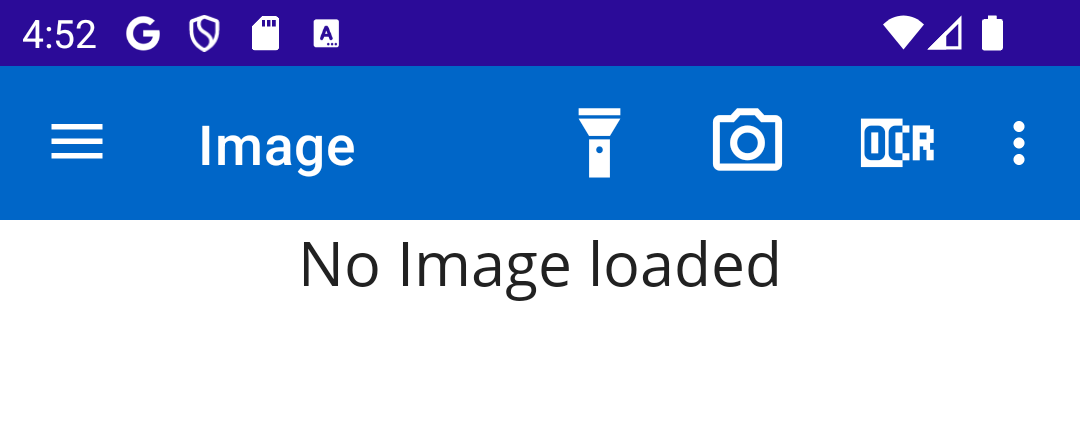
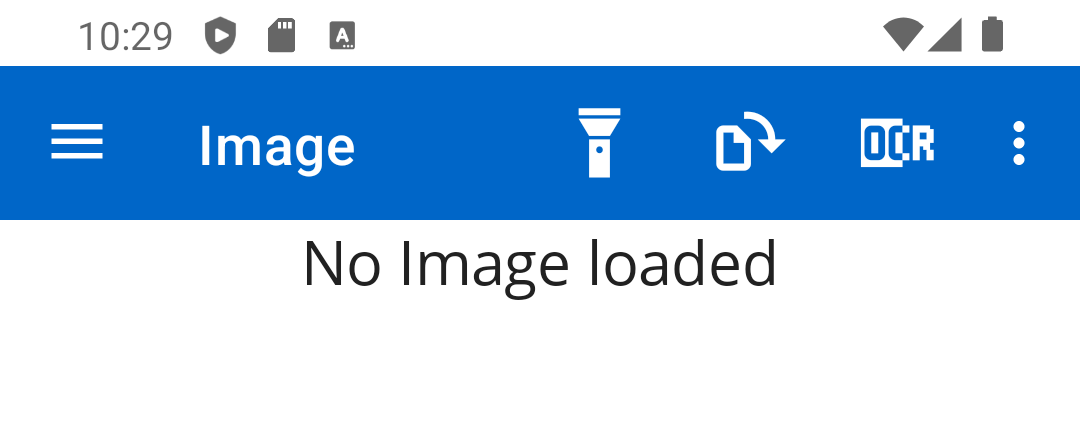
Image Rotation
The image page now has an icon to allow an image to be rotated if it happens to be oriented incorrectly.

Added RotateRight command to ImageViewModel for 90° image rotation with platform-specific logic. Updated ImagePage toolbar to include rotate button in place of camera button. Refactored image processing to use only streams and added rotation methods. Updated Help.

Changed region(s): [[0.0, 0.0, 1.0, 0.1512], [0.275, 0.5442, 0.7333, 0.6953], [0.6417, 0.2419, 0.7333, 0.393]]

diff --git a/web/divisibill/imageglossary.html b/web/divisibill/imageglossary.html
@@ -17,15 +17,15 @@
 <p>This icon, in the top left corner of the screen, allows you to show or collapse the flyout menu to navigate to other pages (navigate from the Items page to the Totals page by swiping left, back to the Items page by swiping right).</p>
 <h3 id="light">Light (<u></u>/<u></u>)</h3>
 <p>Turns the flashlight on or off (it will turn off when you use the camera).</p>
-<h3 id="camera">Camera (<u></u>)</h3>
-<p>Opens the <a href="camerapage.html">camera page</a> so you can take a picture of the bill.</p>
+<h3 id="rotate">Rotate (<u></u>)</h3>
+<p>Rotates the image 90 degrees clockwise. This is useful if you took the picture in landscape mode and want to rotate it to portrait mode for better OCR results.</p>
 <h3 id="ocr">OCR (<u></u>)</h3>
 <p>If you have the Professional Edition version of DivisiBill, this uses a cloud web service to scan the image to extract the data for the current bill.</p>
 <h3 id="ellipsis">Ellipsis (<u></u>)</h3>
 <p>Tap on the ellipsis to open a secondary menu containing commands to delete the current image, take a picture of a replacement image or browse for a picture.</p>
 <ul>
 <li>Delete - Remove the image from the current bill.</li>
-<li>Camera - Take a picture of a bill.</li>
+<li>Camera - Opens the <a href="camerapage.html">camera page</a> so you can take a picture of the bill.</li>
 <li>Browse - Browse and select from current images.</li>
 </ul>
 <h2 id="image-area">Image Area</h2>

diff --git a/DivisiBill/App.xaml b/DivisiBill/App.xaml
@@ -108,6 +108,7 @@
             <FontImageSource x:Key="GlyphOCR"                   Color="White" Glyph="&#xF113A;" FontFamily="mdicons"/> <!--ocr-->
             <FontImageSource x:Key="GlyphPersonEdit"            Color="White" Glyph="&#xF0FFB;" FontFamily="mdicons"/> <!--account-edit-outline-->
             <FontImageSource x:Key="GlyphReplace"               Color="White" Glyph="&#xF0B33;" FontFamily="mdicons"/> <!--file-replace-outline-->
+            <FontImageSource x:Key="GlyphRotate90"              Color="White" Glyph="&#xF1A3E;" FontFamily="mdicons"/> <!--file-rotate-clockwise-->
             <FontImageSource x:Key="GlyphMapMarker"             Color="White" Glyph="&#xF07D9;" FontFamily="mdicons"/> <!--map-marker-outline-->
             <FontImageSource x:Key="GlyphMapMarkerRemove"       Color="White" Glyph="&#xF12FA;" FontFamily="mdicons"/> <!--map-marker-remove-outline-->
             <FontImageSource x:Key="GlyphRestore"               Color="White" Glyph="&#xF099B;" FontFamily="mdicons"/> <!--restore-->

diff --git a/DivisiBill/Views/ImagePage.xaml b/DivisiBill/Views/ImagePage.xaml
@@ -13,7 +13,7 @@
              x:DataType="vm:ImageViewModel">
     <ContentPage.ToolbarItems>
         <ToolbarItem IconImageSource="{Binding LightGlyph}" Command="{Binding ChangeLightModeCommand}" x:Name="FlashlightTbi"/>
-        <ToolbarItem IconImageSource="{StaticResource GlyphCamera}" Command="{Binding TakePictureCommand}"/>
+        <ToolbarItem IconImageSource="{StaticResource GlyphRotate90}" Command="{Binding RotateRightCommand}"/>
         <ToolbarItem IconImageSource="{StaticResource GlyphOCR}" Command="{Binding OcrCommand}"/>
         <ToolbarItem Text = "Delete"   Command="{Binding DeleteCommand}" Order="Secondary"/>
         <ToolbarItem Text = "Undelete" Command="{Binding UndeleteCommand}" Order="Secondary"/>

diff --git a/DivisiBill/ViewModels/ImageViewModel.cs b/DivisiBill/ViewModels/ImageViewModel.cs
@@ -190,6 +190,47 @@ public partial class ImageViewModel : ObservableObjectPlus, IQueryAttributable
             OnPropertyChanged(nameof(HasPreviewImage));
         }
     }
+
+    /// <summary>
+    /// Rotate the current image clockwise by 90 degrees
+    /// </summary>
+    [RelayCommand]
+    private async Task RotateRight()
+    {
+        if (!HasPreviewImage)
+            return;
+
+        try
+        {
+            IsBusy = true;
+            ResetImageView();
+
+            string sourcePath = imageChanged ? Meal.TempImageFilePath : Meal.CurrentMeal.ImagePath;
+            string tempPath = Path.Combine(Path.GetTempPath(), $"rotate_{Guid.NewGuid()}.jpg");
+
+            using (FileStream outputStream = File.Create(tempPath))
+            {
+                if (Microsoft.Maui.Devices.DeviceInfo.Platform == DevicePlatform.Android)
+                    SkiaSharpRotate(sourcePath, outputStream, 90);
+                else
+                    await ImageSharpRotate(sourcePath, outputStream, 90);
+            }
+
+            File.Copy(tempPath, Meal.TempImageFilePath, true);
+            File.Delete(tempPath);
+
+            PreviewImageSource = ImageSource.FromStream(() => File.OpenRead(Meal.TempImageFilePath));
+            imageChanged = true;
+        }
+        catch (Exception ex)
+        {
+            await Utilities.DisplayAlertAsync("Rotate", "Could not rotate image: " + ex.Message, "OK");
+        }
+        finally
+        {
+            IsBusy = false;
+        }
+    }
     #region Controlling the Camera Flash
     /// <summary>
     /// The glyph to use for the flash command - note it is inverted because it is showing what the glyph will do, not what the current state is
@@ -300,18 +341,13 @@ public partial class ImageViewModel : ObservableObjectPlus, IQueryAttributable
         IsBusy = false;
     }
     #endregion
-    #region Image Processing (grayscale and scaling)
+    #region Image Shrinking (gray scale and scaling)
     /// <summary>
     /// Convert an image to a smaller, gray scale version of itself to save space, this code runs very slowly (20s+) on Android
     /// in .NET 8 RC2 at least, so there we use the SkiaSharp version for now. It doesn't compress as well, but it's close enough.
     /// </summary>
-    /// <param name="imagePath">Path to a file containing the original image data (either from and image picker or camera)</param>
+    /// <param name="stream">Stream containing the original image data (either from and image picker or camera)</param>
     /// <param name="newStream">The stream to put the new (reduced size, gray scale) data in</param>
-    private static async Task ImageSharpConvert(string imagePath, FileStream newStream)
-    {
-        using Stream stream = File.OpenRead(imagePath);
-        await ImageSharpConvert(stream, newStream);
-    }
     private static async Task ImageSharpConvert(Stream stream, FileStream newStream)
     {
         using SixLabors.ImageSharp.Image image = await SixLabors.ImageSharp.Image.LoadAsync(stream);
@@ -343,13 +379,8 @@ public partial class ImageViewModel : ObservableObjectPlus, IQueryAttributable
     /// typically) on Android in .NET 8 RC2 at least, so we use it i place of the ImageSharp version for now. It doesn't compress as well,
     /// but it's close enough.
     /// </summary>
-    /// <param name="imagePath">Path to a file containing the original image data (either from and image picker or camera)</param>
+    /// <param name="stream">Stream containing the original image data (either from and image picker or camera)</param>
     /// <param name="newStream">The stream to put the new (reduced size, gray scale) data in</param>
-    private void SkiaConvert(string imagePath, FileStream newStream)
-    {
-        using Stream stream = File.OpenRead(imagePath);
-        SkiaConvert(stream, newStream);
-    }
     private void SkiaConvert(Stream stream, FileStream newStream)
     {
         var v = SKImage.FromEncodedData(stream);
@@ -369,6 +400,54 @@ public partial class ImageViewModel : ObservableObjectPlus, IQueryAttributable
         byte[] bytes = data.ToArray();
         File.WriteAllBytes(@"c:\temp\divisibilltest.jpg", bytes);
 #endif
+    }
+    #endregion
+    #region Image Rotation
+    /// <summary>
+    /// Rotate an image using ImageSharp (fast on Windows, slow on Android)
+    /// </summary>
+    /// <param name="imagePath">Path to a file containing the original image data</param>
+    /// <param name="outputStream">The stream to put the rotated image data in</param>
+    /// <param name="degrees">The degrees to rotate (e.g., -90 for counter-clockwise, 90 for clockwise)</param>
+    private static async Task ImageSharpRotate(string imagePath, FileStream outputStream, float degrees)
+    {
+        using FileStream inputStream = File.OpenRead(imagePath);
+        using SixLabors.ImageSharp.Image image = await SixLabors.ImageSharp.Image.LoadAsync(inputStream);
+        image.Mutate(x => x.Rotate(degrees));
+        await image.SaveAsync(outputStream, new JpegEncoder() { ColorType = JpegEncodingColor.Luminance });
+    }
+
+    /// <summary>
+    /// Rotate an image using SkiaSharp (fast on Android, slow on Windows)
+    /// </summary>
+    /// <param name="imagePath">Path to a file containing the original image data</param>
+    /// <param name="outputStream">The stream to put the rotated image data in</param>
+    /// <param name="degrees">The degrees to rotate (e.g., -90 for counter-clockwise, 90 for clockwise)</param>
+    private void SkiaSharpRotate(string imagePath, FileStream outputStream, float degrees)
+    {
+        using FileStream inputStream = File.OpenRead(imagePath);
+        var sourceImage = SKImage.FromEncodedData(inputStream);
+        var sourceBitmap = SKBitmap.FromImage(sourceImage);
+
+        degrees = degrees % 360;
+        if (degrees < 0)
+            degrees += 360;
+
+        SKBitmap rotatedBitmap;
+        if (degrees != 0)
+        {
+            rotatedBitmap = new SKBitmap(sourceBitmap.Height, sourceBitmap.Width, SKColorType.Gray8, SKAlphaType.Opaque);
+            using var canvas = new SKCanvas(rotatedBitmap);
+            canvas.Translate(rotatedBitmap.Width, 0);
+            canvas.RotateDegrees(degrees);
+            canvas.DrawBitmap(sourceBitmap, 0, 0);
+        }
+        else
+            rotatedBitmap = sourceBitmap;
+
+        using var image = SKImage.FromBitmap(rotatedBitmap);
+        using SKData data = image.Encode(SKEncodedImageFormat.Jpeg, 100);
+        data.SaveTo(outputStream);
     }
     #endregion
     #region IQueryAttributable Implementation

diff --git a/web/divisibill/imageglossary.md b/web/divisibill/imageglossary.md
@@ -14,9 +14,9 @@ This icon, in the top left corner of the screen, allows you to show or collapse 
 
 Turns the flashlight on or off (it will turn off when you use the camera).
 
-### Camera (<u>&#xF0D5d;</u>)
+### Rotate (<u>&#xF1A3E;</u>)
 
-Opens the [camera page](camerapage.html) so you can take a picture of the bill.
+Rotates the image 90 degrees clockwise. This is useful if you took the picture in landscape mode and want to rotate it to portrait mode for better OCR results.
 
 ### OCR (<u>&#xF113A;</u>)
 
@@ -27,7 +27,7 @@ If you have the Professional Edition version of DivisiBill, this uses a cloud we
 Tap on the ellipsis to open a secondary menu containing commands to delete the current image, take a picture of a replacement image or browse for a picture.
 
 - Delete - Remove the image from the current bill.
-- Camera - Take a picture of a bill.
+- Camera - Opens the [camera page](camerapage.html) so you can take a picture of the bill.
 - Browse - Browse and select from current images.
 
 ## Image Area
